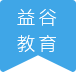
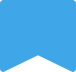
改动-falg

diff --git a/src/components/index/index.vue b/src/components/index/index.vue
@@ -13,6 +13,7 @@
       <div class="container">
         <div class="section--header">
           <img src="static/img/flag.png" alt=""/>
+            <i class="flag-i1">黄陵中学</i>
           <h5 class="sectionleft" >作品展示</h5>
           <span>WORKS SHOW</span>
         </div>
@@ -43,7 +44,9 @@
       <div class="container">
         <div class="section--header">
           <img src="../../../static/img/flag.png" alt=""/>
-          <h5 class="sectionleft" >校本课程</h5>
+            <i class="flag-i1">黄陵中学</i>
+
+            <h5 class="sectionleft" >校本课程</h5>
           <span>COURSES</span>
         </div>
 
@@ -93,7 +96,9 @@
       <div class="container">
         <div class="section--header">
           <img src="../../../static/img/flag.png" alt=""/>
-          <h5 class="sectionleft" >创客社团</h5>
+            <i class="flag-i1">黄陵中学</i>
+
+            <h5 class="sectionleft" >创客社团</h5>
           <span>TEAM</span>
         </div>
         <!--index-container end-->
@@ -202,7 +207,16 @@
 <!-- Add "scoped" attribute to limit CSS to this component only -->
 <style>
   /*轮播*/
-
+  .flag-i1{
+      font-style: normal;
+      position: relative;
+      width: 40px;
+      left: -51px;
+      display: inline-block;
+      top: 7px;
+      font-size: 14px;
+      color: white;
+  }
   .workimg{
     height: 220px !important;
     width: 290px !important;
